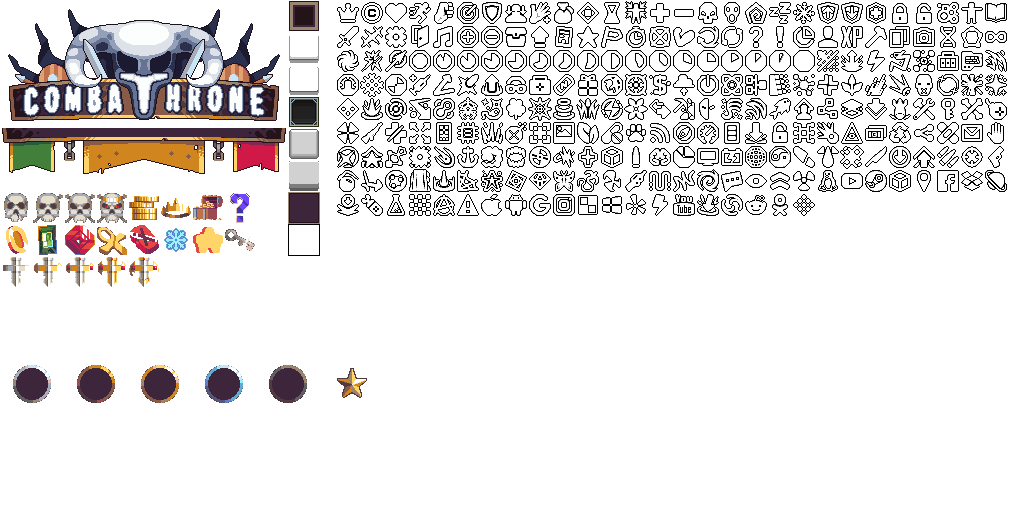
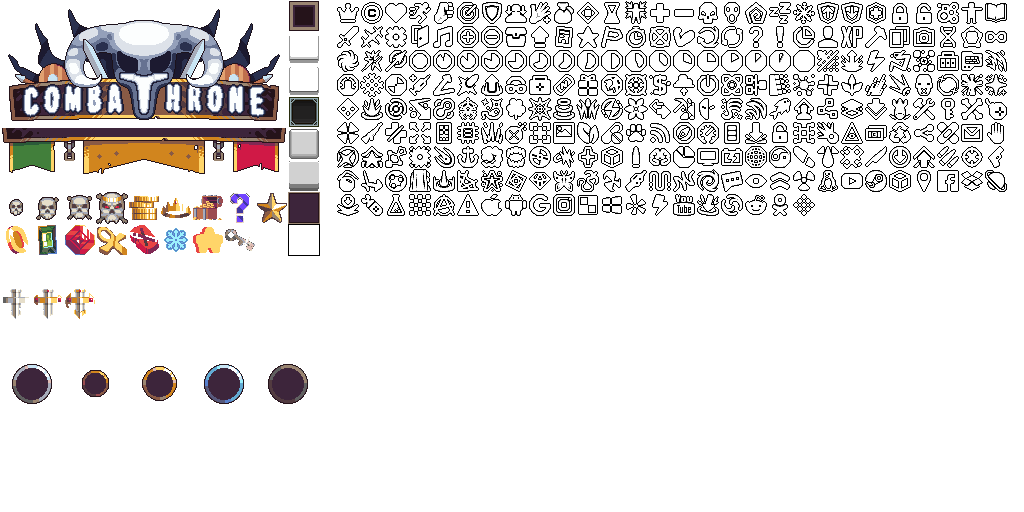
More story map progress

diff --git a/code/screen-story-map.go b/code/screen-story-map.go
@@ -2,6 +2,7 @@ package game
 
 import (
 	char "game/code/constants/character"
+	"game/code/constants/progress"
 	"pure-game-kit/packages/assets"
 	"pure-game-kit/packages/geometry"
 	"pure-game-kit/packages/graphics"
@@ -13,6 +14,7 @@ import (
 	"pure-game-kit/packages/motion"
 	"pure-game-kit/packages/utility/color"
 	"pure-game-kit/packages/utility/color/palette"
+	"pure-game-kit/packages/utility/point"
 )
 
 func InitStoryMap() {
@@ -29,7 +31,16 @@ func InitStoryMap() {
 		storyMapFogFade = append(storyMapFogFade, motion.NewTween(FOG_OPACITY))
 	}
 	storyMapLayers[0].Details.Tint = palette.White
-	storyMapPaths = storyMapLayers[len(storyMapLayers)-1].TilemapPaths()
+
+	storyMapCollisionGrid = new(geometry.NewShapeGrid(TileSize))
+	storyMapCollisionGrid.AddShapes(storyMapLayers[len(storyMapLayers)-2].TilemapShapes()...)
+	storyMapProgressPoints = storyMapLayers[len(storyMapLayers)-1].TilemapShapes()
+
+	var start = storyMapProgressPoints[progress.Start]
+	storyMapMoveTween = motion.NewTween(start.X, start.Y)
+
+	var diff, info = GUI.Crops("difficulty"), GUI.Crops("info")
+	storyProgressImages = [progress.COUNT]assets.ImageId{0, info[0], diff[0], diff[1], diff[2], diff[3]}
 }
 func Progress() {
 	storyMapFogFade[3+Player.Progress].GoTo(1.0, nil, 0)
@@ -39,13 +50,15 @@ func UpdateStoryMap() {
 	View.FillSize(TileSize*18, TileSize*10)
 	mouse.SetCursor(cursor.Arrow)
 
-	View.X, View.Y = PointAtCell(-0.5, -5.5)
+	View.X, View.Y = -TileSize*9, -TileSize*10
 	for i, l := range storyMapLayers {
 		if i >= 3 {
 			var alpha = byte(storyMapFogFade[i].CurrentValues()[0])
 			l.Details.Tint = color.RGBA(255, 255, 255, alpha)
 		}
-		View.DrawObject(l)
+		if i < len(storyMapLayers)-2 {
+			View.DrawObject(l)
+		}
 	}
 
 	if keyboard.IsKeyJustPressed(key.F) {
@@ -60,20 +73,47 @@ func UpdateStoryMap() {
 	SceneHUD.UpdateBack()
 	SceneHUD.UpdateFront()
 
-	var x, y = PointAtCell(Player.MapCellX, Player.MapCellY)
-	gui.Image(Characters[char.Explorer].Icon, geometry.NewArea(x, y, TileSize, TileSize), false)
+	for i := progress.Tutorial; i <= progress.Underground; i++ {
+		var point = storyMapProgressPoints[i]
+		var bg = GUI.Crops("progress")[i-1] // ignore Start
+		var bgCrop = bg.CropArea()
+		var img = storyProgressImages[i]
+		var imgCrop = img.CropArea()
+		View.DrawImage(point.X, point.Y, bgCrop.Width, bgCrop.Height, 0, bg, palette.White, geometry.Area{})
+		View.DrawImage(point.X, point.Y, imgCrop.Width, imgCrop.Height, 0, img, palette.White, geometry.Area{})
 
-	if keyboard.IsKeyPressed(key.D) {
-		Player.MapCellX += DeltaTimeScaled()
+		point.Width, point.Height = TileSize*1.5, TileSize*1.5
+		if point.ContainsPoint(View.MousePosition()) {
+			SceneHUD.Highlight(View, point, palette.White)
+			mouse.SetCursor(cursor.Hand)
+		}
 	}
 
-	View.DrawPath(storyMapPaths, 1, palette.White, geometry.Area{})
+	var pos = storyMapMoveTween.CurrentValues()
+	var x, y = pos[0], pos[1]
+	View.DrawImage(x, y, TileSize, TileSize, 0, Characters[char.Explorer].Icon, palette.White, geometry.Area{})
+
+	var mx, my = View.MousePosition()
+	storyMapCollisionGrid.FindPathDiagonally(x, y, mx, my, true, &storyMapPath)
+
+	if mouse.IsAnyButtonJustPressed() {
+		storyMapMoveTween.ForceStop()
+		for i := 2; i < len(storyMapPath); i += 2 {
+			var x1, y1, x2, y2 = storyMapPath[i-2], storyMapPath[i-1], storyMapPath[i], storyMapPath[i+1]
+			var dist = point.DistanceToPoint(x1, y1, x2, y2)
+			storyMapMoveTween.GoTo(dist/50, nil, x2, y2)
+		}
+	}
 }
 
 // private ========================================================
 
-const FOG_OPACITY = 128
+const FOG_OPACITY, COLLISION_TILE_ID = 128, 144
 
+var storyMapProgressPoints []geometry.Shape
 var storyMapLayers []*graphics.Object
 var storyMapFogFade []*motion.Tween
-var storyMapPaths []float32
+var storyMapCollisionGrid *geometry.ShapeGrid
+var storyMapMoveTween *motion.Tween
+var storyMapPath []float32
+var storyProgressImages [progress.COUNT]assets.ImageId

diff --git a/code/hud.go b/code/hud.go
@@ -194,8 +194,7 @@ func (h *HUD) Highlight(view *graphics.View, shape geometry.Shape, color uint) {
 	if Popup != popup.NONE {
 		return
 	}
-	shape.Width += 2
-	shape.Height += 2
+	shape.Width, shape.Height, shape.Roundness = shape.Width+2, shape.Height+2, 0
 	h.HoverHighlight.Shape = shape
 	h.HoverHighlight.Details.Tint = color
 	view.DrawObject(h.HoverHighlight)
@@ -618,7 +617,7 @@ func (h *HUD) updateScore() {
 		h.Coins.X, h.Coins.Y = area.X+TileSize*0.9, area.Y+4
 
 		var demoText = geometry.NewArea(h.Coins.X, h.Coins.Y+TileSize*1.1, TileSize*2.5, TileSize)
-		gui.Text("Artifacts are\nunavailable in\nthe demo.", demoText, geometry.Area{}, ThemeGUI, false)
+		gui.Text("Artifacts are\nnot available\nin the demo.", demoText, geometry.Area{}, ThemeGUI, false)
 	}
 
 	h.Coins.Text = CoinsText.Set(Tags[icon.Coins], Player.Coins)

diff --git a/code/debug.go b/code/debug.go
@@ -92,6 +92,11 @@ func UpdateDebug() {
 			View.DrawText(debugInfo, topX, topY, 50, 0, palette.White, geometry.Area{})
 		}
 	case DebugProfile:
+		var x, y = View.PointFromEdge(0.5, 0)
+		var mx, my = View.MousePosition()
+		var cx, cy = CellAtPoint(mx, my)
+		debugCoords.Set("Mouse[", int(mx), ", ", int(my), "] Cell[", int(cx), ", ", int(cy), "]")
+		View.DrawText(debugCoords.Get(), x, y, 50, 0, palette.White, geometry.Area{})
 		View.DrawDebugInfo(true)
 	}
 }
@@ -106,3 +111,4 @@ var debugStates = []string{
 	state.ActStart:            "act charge", state.ActCharging: "act charge", state.ActTrigger: "act charge",
 	state.ActRecovering: "act recover", state.ActEnd: "act recover"}
 var debugInfo = ""
+var debugCoords text.Dynamic

diff --git a/code/screen.go b/code/screen.go
@@ -37,6 +37,7 @@ var ScreenFade = motion.NewTween(255)
 
 func Init() {
 	View = new(graphics.NewView(1))
+	Player = NewPlayer()
 	ScreenFade.GoTo(0.35, easing.SineIn, 0)
 
 	InitAudio()
@@ -47,8 +48,8 @@ func Init() {
 	InitCredits()
 
 	InitTitleScreen()
-	InitStoryMap()
 	InitScene()
+	InitStoryMap()
 }
 func InitGUI() {
 	GUI = assets.LoadAtlas(assets.LoadImage("data/gui.png"), "data/gui.xml")

diff --git a/code/screen-scene.go b/code/screen-scene.go
@@ -83,8 +83,6 @@ func InitScene() {
 	Pickups = append(Pickups, NewPickup(150, pickup.Key, lane.LowerOff))
 	Pickups = append(Pickups, NewPickup(150, pickup.Star, lane.MiddleOff))
 
-	Player = NewPlayer()
-
 	// Player.Units[0] = NewUnit(char.Explorer, team.Ally, 0)
 	// Player.Units[1] = NewUnit(char.Miner, team.Ally, 0)
 	// Player.Units[2] = NewUnit(char.Cook, team.Ally, 0)

diff --git a/code/player.go b/code/player.go
@@ -7,12 +7,10 @@ type PlayerState struct {
 	Glory, Coins int
 	Pickups      []*Pickup
 	Units        []*Unit
-
-	MapCellX, MapCellY float32
 }
 
 func NewPlayer() *PlayerState {
-	return &PlayerState{Units: make([]*Unit, 8), MapCellX: -1, MapCellY: 5}
+	return &PlayerState{Units: make([]*Unit, 8)}
 }
 
 //=================================================================

diff --git a/code/constants/progress/progress.go b/code/constants/progress/progress.go
@@ -9,4 +9,5 @@ const (
 	South
 	North
 	Underground
+	COUNT
 )
